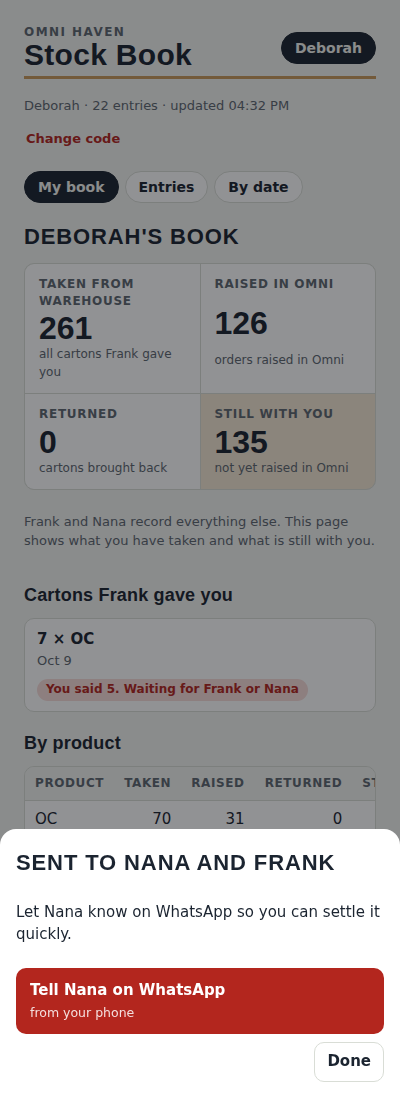
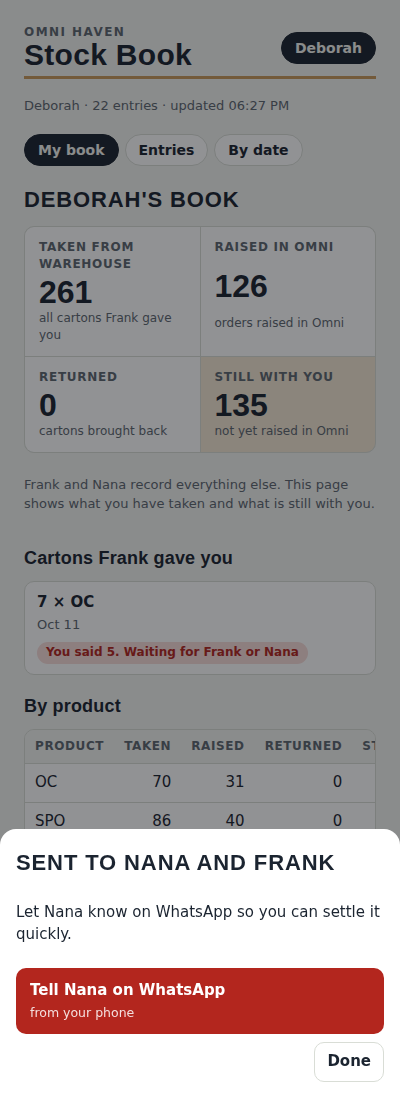
Fix the app not opening: drop "$&" from the page, which Google mangles when serving it
The dispute WhatsApp message used "$&" in a replace; Google treats it as a
special pattern when it serves the page, which broke the code that follows.
The on-screen error now also shows the line the browser choked on.

Claude-Session: https://claude.ai/code/session_01M76rEpHp4Amow41WjosSbK

Changed region(s): [[0.06, 0.0927, 0.93, 0.7727], [0.48, 0.5873, 0.84, 0.7727]]

diff --git a/src/Index.html b/src/Index.html
@@ -106,7 +106,10 @@ input,select{font:inherit;padding:10px 11px;border:1px solid var(--line);border-
 
 <script>
 // If the app's code fails, say so on screen instead of staying on "Connecting".
-window.onerror=function(msg,src,line,col){var el=document.getElementById("status");if(el)el.textContent="The app hit a problem: "+msg+" (line "+line+":"+col+"). Send Claude a screenshot of this.";};
+window.onerror=function(msg,src,line,col){var el=document.getElementById("status");if(!el)return;var near="";
+  try{var sc=[].filter.call(document.scripts,function(x){return x.textContent.indexOf("const DEFAULT"+"_CONFIG")>=0})[0];var L=(sc&&sc.textContent||"").split("\n");
+    var m=/identifier '([^']+)'/.exec(msg),w=m?m[1]:"";L.forEach(function(t,i){if(w&&t.substr(col-1,w.length)===w)near+=" [#"+(i+1)+"] "+t.slice(Math.max(0,col-70),col+30);});}catch(e){}
+  el.textContent="The app hit a problem: "+msg+" (line "+line+":"+col+")."+near+" Send Claude a screenshot of this.";};
 </script>
 <script>
 (function(){
@@ -649,7 +652,7 @@ document.addEventListener("click",async ev=>{
       $("#sheet").hidden=false;$("#cancel").onclick=closeForm;$("#dForm").onsubmit=async e=>{e.preventDefault();const dn=$("#d_n").value;if(dn===""){$("#d_err").textContent="Enter the number of cartons you took.";return}
         const p={status:"disputed",disputeCartons:n(dn),disputeNote:$("#d_note").value.trim()};later(()=>Object.assign(findE(id)||{},p),"updateEntry",id,p);const de=findE(id);
         const num=waNum(phones.Nana);if(!num||!de){closeForm();toast("Sent to Nana and Frank");return}
-        const msg=`Hi Nana, this is ${who.name.split(" ")[0]}. Frank recorded ${n(de.cartons)} x ${de.product} for me on ${fmtDate(de.date)}, but I took ${n(dn)}.${p.disputeNote?" "+p.disputeNote.replace(/[^.!?]$/,"$&."):""} Please check so we can settle it.${appUrl?"\n"+appUrl:""}`;
+        const msg=`Hi Nana, this is ${who.name.split(" ")[0]}. Frank recorded ${n(de.cartons)} x ${de.product} for me on ${fmtDate(de.date)}, but I took ${n(dn)}.${p.disputeNote?" "+p.disputeNote+(/[.!?]$/.test(p.disputeNote)?"":"."):""} Please check so we can settle it.${appUrl?"\n"+appUrl:""}`;
         card.innerHTML=`<div class="lines"><h2>Sent to Nana and Frank</h2><p>Let Nana know on WhatsApp so you can settle it quickly.</p><a class="btn" href="https://wa.me/${num}?text=${encodeURIComponent(msg)}" target="_blank" rel="noopener">Tell Nana on WhatsApp<small>from your phone</small></a><div class="formbar"><button type="button" class="btn alt slim" id="waDone">Done</button></div></div>`;
         $("#waDone").onclick=closeForm;card.querySelector("a.btn").addEventListener("click",()=>setTimeout(closeForm,300))}}
     if(a.dataset.act==="settle"){
